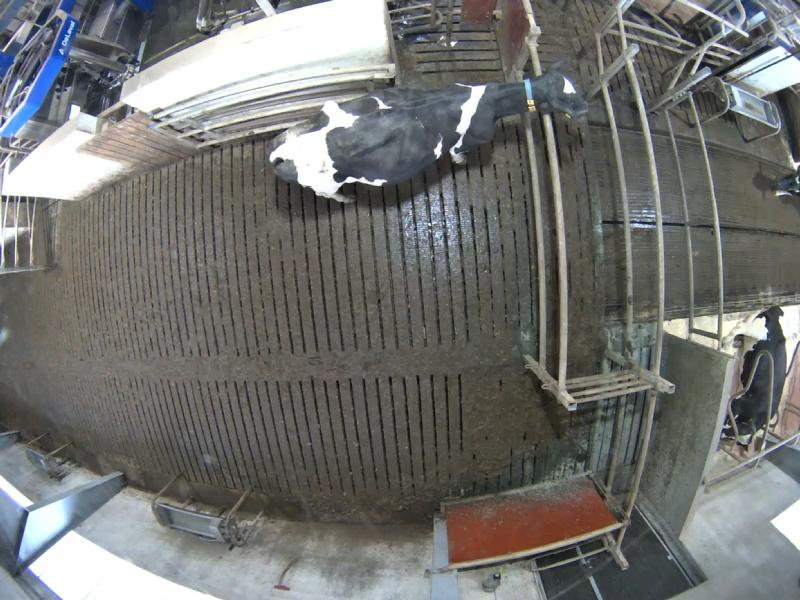
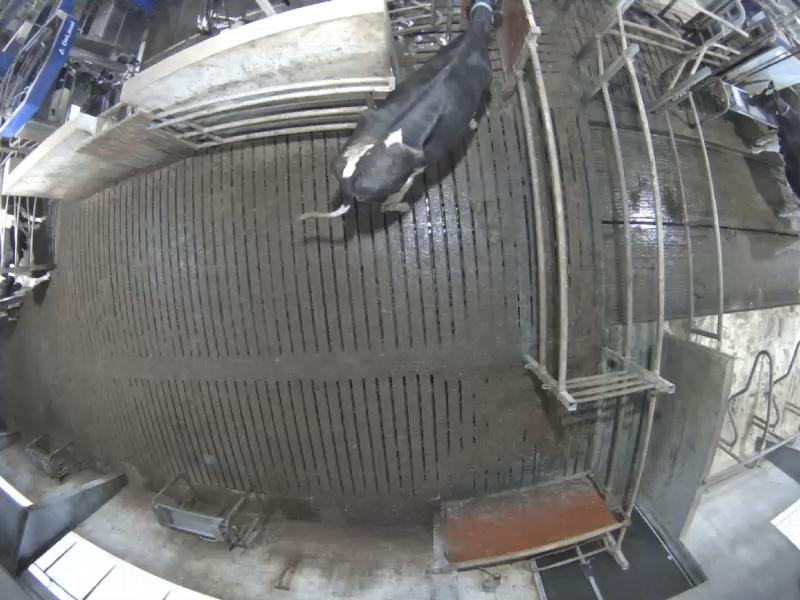
time synced images and stiching

diff --git a/main.tex b/main.tex
@@ -56,25 +56,26 @@ Finally, a Convolutional Neural Network (CNN)  was trained to detect the cows in
 
 \section{Camera calibration}
 
+\subsection{Experimental setup}
+
+\begin{figure}[tb]
+\begin{center}
+  \includegraphics[width=0.9\textwidth]{full.jpg}
+\end{center}
+  \caption{The frames from Figure~\ref{fig:old} projected onto the cow shoulder plane and stitched together}
+  \label{fig:old}
+\end{figure}
 
 
-In order to fulfil the specific research questions regarding dairy barn latted floor and distribution of animals on it,
- a correct transition of image coordinates into real-world coordinates was crucial. To assure that all the coordinates
-can be reliable and that the observer/algorithm will be able to correctly dentify all the objects, three images were
-merged and synchronised after applying normalisation algorithms. Setups with nly one camera (even with wide
-observation angle) could suffer from a number of image artefacts (e.g. radial distortion, tangential distortion,
-occlusion between objects/cows) therefore; it was decided to use three cameras for a relatively small region of
-interest (ROI) in the waiting area.
-
-For this study, the classical pinhole camera model augmented with a lens distortion model was used for scene view
-reconstruction. The scene view was formed through the projection of 3D world points into the image
-plane and to assure correct disposition and perspective of objects in a merged image covering the ROI, we used
-number of planar markers to estimate scene homography and lens distortion. The camera calibration method
-developed by Tsai (1986) and further improved by Horn (2000) includes both interior and exterior orientations,
-corrections for the distortion and a scale factor for the reliable correlation between target and scene coordinates.
-The number of planar markers was used for the camera calibration on site (Figure 1). These markers were placed
-at the height of the virtual floor. This height was estimated to be 1.49 meters with a standard deviation of 0.05 by
+The classical pinhole camera model augmented with a lens distortion model was used to model the camera.
+The camera setup was calibrated by placing markers on the walls and on stands in the middle of the room. They were all placed at the same height and thus defined a plane. The mean cow heigh in the barn was measured and the plane was place at their shoulder height. This height was estimated to be 1.49 meters with a standard deviation of 0.05 by
 measuring twelve random cows in the study area.
+This is the plane in which all of the landmarks except for the head is expected to be found. By projecting detected landmarks back and forth between the camera images and this plane, detections from different cameras can be matched.
+
+In addition to the markers, the focal length and lens distortion parameters were provided by the camera manufacturer.
+The lens distortion was removed and an homograph was estimated that projected each of the camera images onto the cow shoulder plane. Figure~\ref{fig:stitch} shows a view stitched together from all three images in Figure~\ref{fig:old}. It shows an overview of the entire waiting area. At the borders between the cameras the image become strange as one cow there is viewed from different directions on opposite sides of the border. However, this image is only used for illustration. There is enough overlap between the images to allow them to be processed one by one and then the resulting detections can be combined using this calibration.
+
+FIXME: center estimation, 
 
 \section{Data annotation}
 
